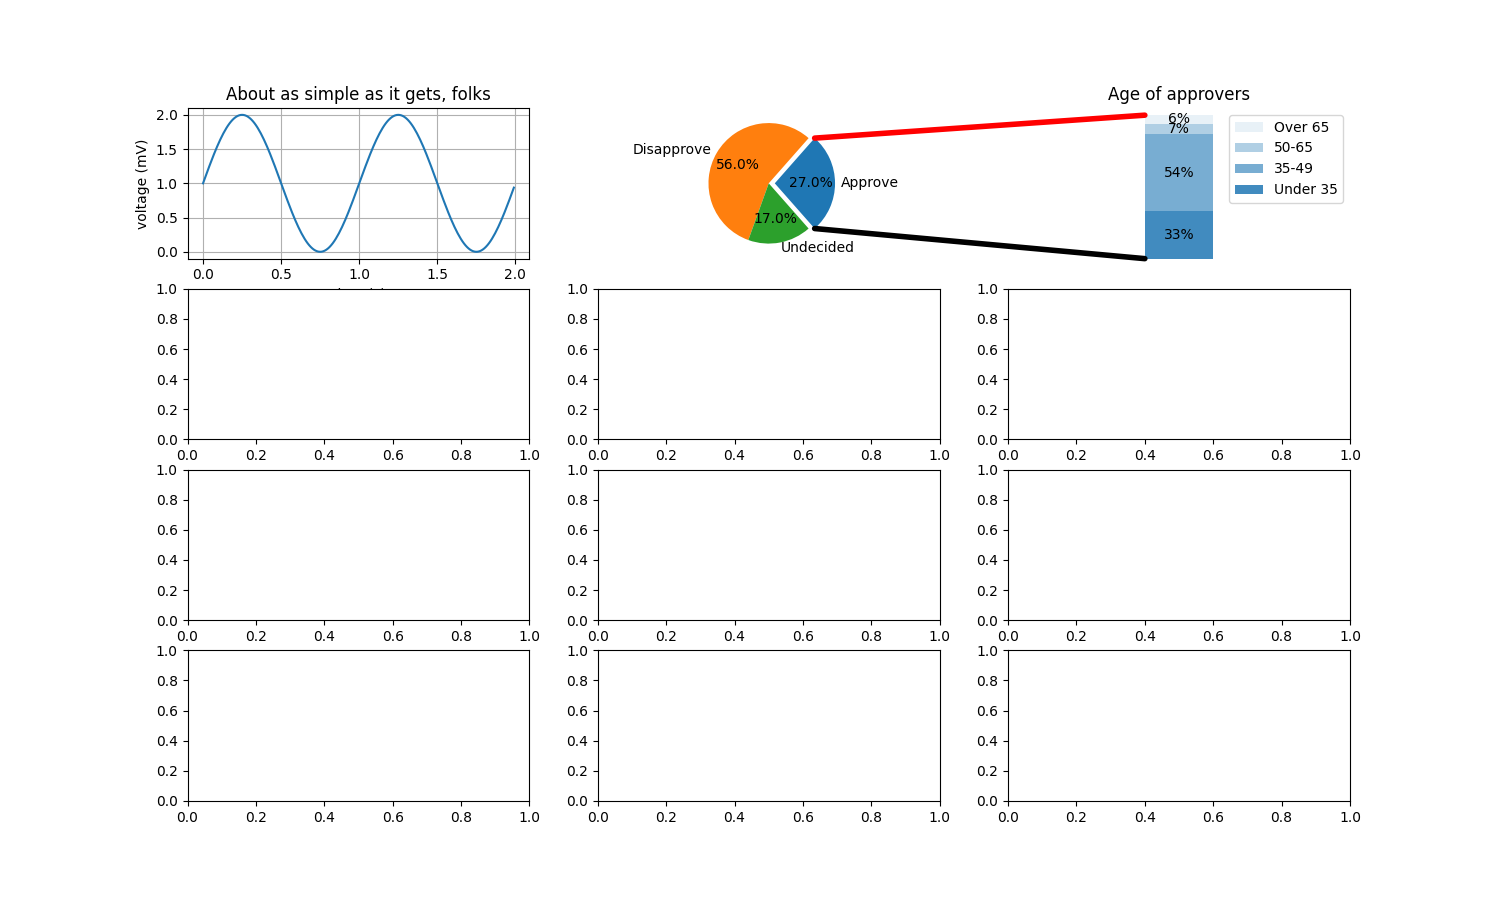
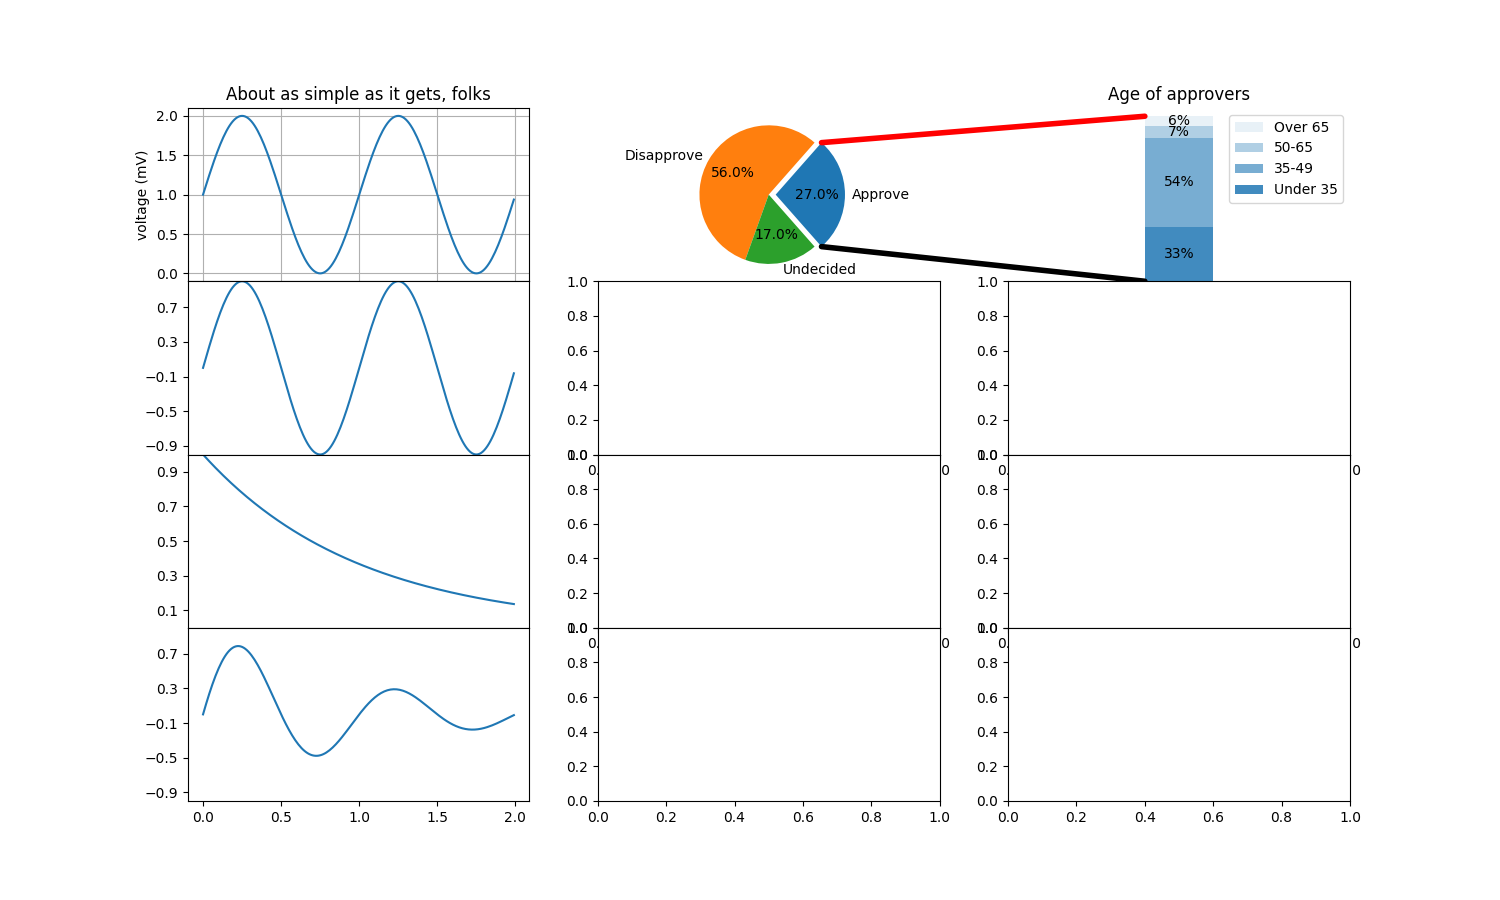
matplotlib shared axes example added

diff --git a/plotlib2.py b/plotlib2.py
@@ -80,5 +80,29 @@ ax.set(xlabel='time (s)', ylabel='voltage (mV)',
        title='About as simple as it gets, folks')
 ax.grid()
 
+t = np.arange(0.0, 2.0, 0.01)
+
+s1 = np.sin(2 * np.pi * t)
+s2 = np.exp(-t)
+s3 = s1 * s2
+
+fig.subplots_adjust(hspace=0)
+
+# Plot each graph, and manually set the y tick values
+axs[1,0].plot(t, s1)
+axs[1,0].set_yticks(np.arange(-0.9, 1.0, 0.4))
+axs[1,0].set_ylim(-1, 1)
+axs[1,0].sharex(axs[3,0])
+
+axs[2,0].plot(t, s2)
+axs[2,0].set_yticks(np.arange(0.1, 1.0, 0.2))
+axs[2,0].set_ylim(0, 1)
+axs[2,0].sharex(axs[3,0])
+
+axs[3,0].plot(t, s3)
+axs[3,0].set_yticks(np.arange(-0.9, 1.0, 0.4))
+axs[3,0].set_ylim(-1, 1)
+# axs[3,0].sharex(axs[0,0])
+
 fig.savefig("test.png")
 plt.show()

diff --git a/plotlib3.py b/plotlib3.py
@@ -1,0 +1,27 @@
+import matplotlib.pyplot as plt
+import numpy as np
+
+t = np.arange(0.0, 2.0, 0.01)
+
+s1 = np.sin(2 * np.pi * t)
+s2 = np.exp(-t)
+s3 = s1 * s2
+
+fig, axs = plt.subplots(3, 1, sharex=True, sharey=False)
+# Remove vertical space between Axes
+fig.subplots_adjust(hspace=0)
+
+# Plot each graph, and manually set the y tick values
+axs[0].plot(t, s1)
+axs[0].set_yticks(np.arange(-0.9, 1.0, 0.4))
+axs[0].set_ylim(-1, 1)
+
+axs[1].plot(t, s2)
+axs[1].set_yticks(np.arange(0.1, 1.0, 0.2))
+axs[1].set_ylim(0, 1)
+
+axs[2].plot(t, s3)
+axs[2].set_yticks(np.arange(-0.9, 1.0, 0.4))
+axs[2].set_ylim(-1, 1)
+
+plt.show()
